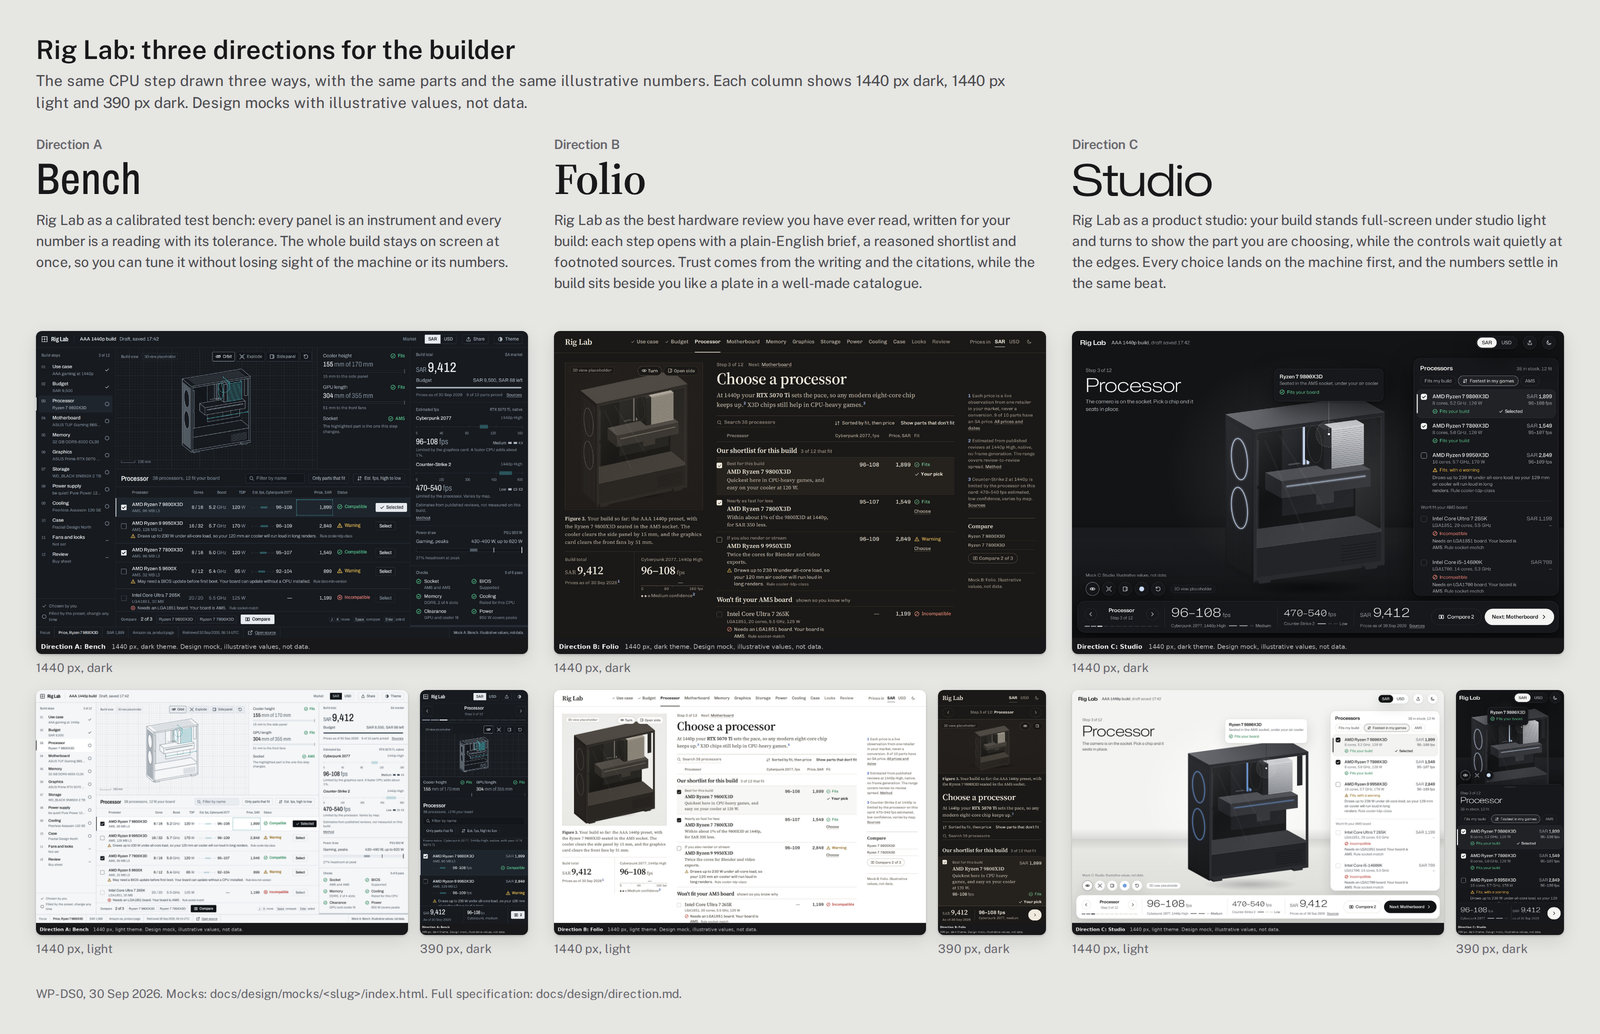
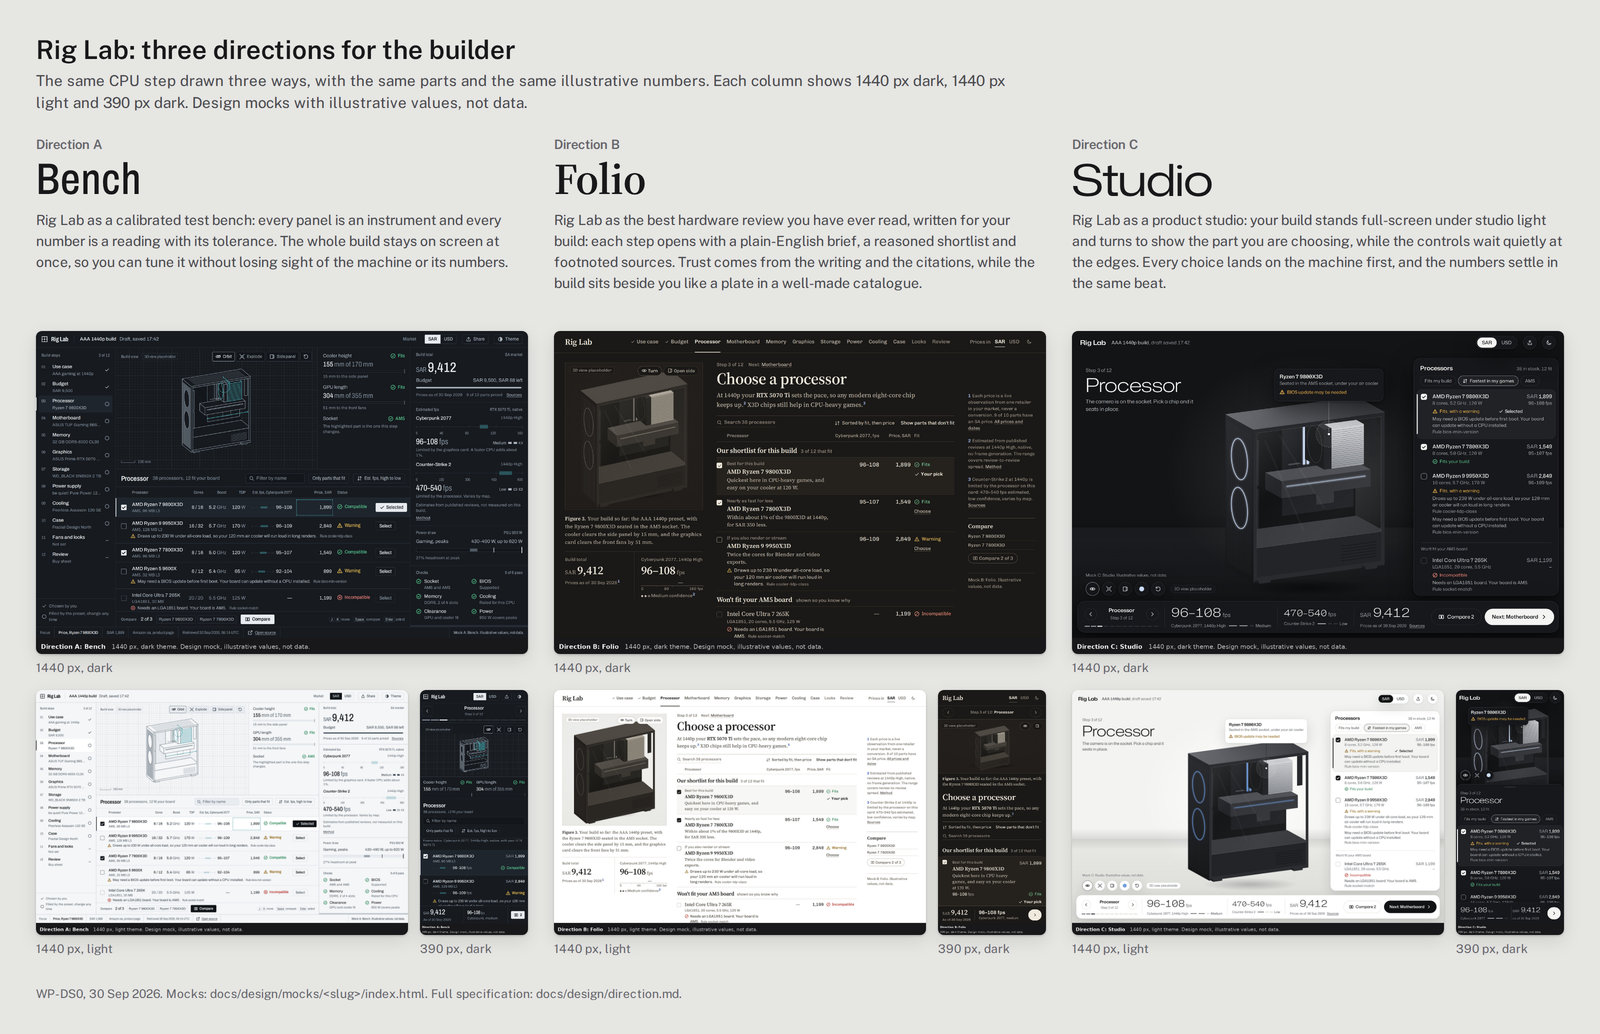
design: warn on the BIOS the Ryzen 9000 chips need in the Studio mock
The Studio mock showed the Ryzen 7 9800X3D as fitting the AM5 board with
no BIOS check, while the same build's Ryzen 5 9600X warns in the Bench
mock. Zen 5 chips need a newer BIOS than an early B650 board may ship
with, so the 9800X3D now warns with the same wording ("May need a BIOS
update before first boot. Your board can update without a CPU
installed."), and the 9950X3D, released later, adds that reason to its
cooler warning. Rows carry a list of reasons; the stage callout names
the warning; rule ids break onto their own line. Re-shot all six Studio
sizes and re-rendered the board. publish-mocks.py takes a slug.

Claude-Session: https://claude.ai/code/session_01ETfjPtJNMrx5HQNzy9SfWS

diff --git a/docs/design/mocks/studio/index.html b/docs/design/mocks/studio/index.html
@@ -178,7 +178,7 @@ svg.i { width: 18px; height: 18px; flex: none; stroke: currentColor; fill: none;
 .pst svg.i { width: 15px; height: 15px; }
 .pst .selected { margin-left: auto; color: var(--ink); font-weight: 500; display: inline-flex; gap: 4px; align-items: center; }
 .why { grid-column: 2 / 4; color: var(--ink-2); font-size: 13px; line-height: 19px; margin-top: 2px; }
-.why .rule { color: var(--ink-3); white-space: nowrap; margin-left: 4px; }
+.why .rule { color: var(--ink-3); white-space: nowrap; }
 .part.blocked .pn { color: var(--ink-2); }
 .part.blocked .pr { color: var(--ink-3); font-weight: 400; }
 .divider { margin: 10px 12px 4px; color: var(--ink-3); font-size: 12px; line-height: 16px; border-top: 1px solid var(--edge); padding-top: 10px; }
@@ -324,7 +324,7 @@ svg.i { width: 18px; height: 18px; flex: none; stroke: currentColor; fill: none;
   <div class="callout" id="callout" role="note" aria-label="The part this step changes">
     <div class="t" data-bind="co-name">Ryzen 7 9800X3D</div>
     <div class="s">Seated in the AM5 socket, under your air cooler</div>
-    <div class="chip ok" data-bind="co-state"><svg class="i"><use href="#i-ok"/></svg>Fits your board</div>
+    <div class="chip warn" data-bind="co-state"><svg class="i"><use href="#i-warn"/></svg>BIOS update may be needed</div>
   </div>
   <div class="heading">
     <div class="k">Step 3 of 12</div>
@@ -398,16 +398,18 @@ svg.i { width: 18px; height: 18px; flex: none; stroke: currentColor; fill: none;
 // Illustrative values only. Prices are per-market observations, never conversions.
 const OTHER = { sar: 7513, usd: 1990 };
 const CPUS = [
-  { id: '9800x3d', name: 'AMD Ryzen 7 9800X3D', short: 'Ryzen 7 9800X3D', sub: '8 cores, 5.2 GHz, 120 W', sar: 1899, usd: 479, cp: [96, 108], cs: [470, 540], state: 'ok' },
+  { id: '9800x3d', name: 'AMD Ryzen 7 9800X3D', short: 'Ryzen 7 9800X3D', sub: '8 cores, 5.2 GHz, 120 W', sar: 1899, usd: 479, cp: [96, 108], cs: [470, 540], state: 'warn',
+    why: [{ short: 'BIOS update may be needed', text: 'May need a BIOS update before first boot. Your board can update without a CPU installed.', rule: 'bios-min-version' }] },
   { id: '7800x3d', name: 'AMD Ryzen 7 7800X3D', short: 'Ryzen 7 7800X3D', sub: '8 cores, 5.0 GHz, 120 W', sar: 1549, usd: 399, cp: [95, 107], cs: [420, 490], state: 'ok' },
   { id: '9950x3d', name: 'AMD Ryzen 9 9950X3D', short: 'Ryzen 9 9950X3D', sub: '16 cores, 5.7 GHz, 170 W', sar: 2849, usd: 699, cp: [96, 109], cs: [480, 550], state: 'warn',
-    reason: 'Draws up to 230 W under all-core load, so your 120 mm air cooler will run loud in long renders.', rule: 'cooler-tdp-class' },
+    why: [{ short: 'Air cooler will run loud', text: 'Draws up to 230 W under all-core load, so your 120 mm air cooler will run loud in long renders.', rule: 'cooler-tdp-class' },
+      { short: 'BIOS update may be needed', text: 'May need a BIOS update before first boot. Your board can update without a CPU installed.', rule: 'bios-min-version' }] },
   { id: '265k', name: 'Intel Core Ultra 7 265K', short: 'Core Ultra 7 265K', sub: 'LGA1851, 20 cores, 5.5 GHz', sar: 1199, usd: 299, state: 'block',
-    reason: 'Needs an LGA1851 board. Your board is AM5.', rule: 'socket-match' },
+    why: [{ text: 'Needs an LGA1851 board. Your board is AM5.', rule: 'socket-match' }] },
   { id: '14600k', name: 'Intel Core i5-14600K', short: 'Core i5-14600K', sub: 'LGA1700, 14 cores, 5.3 GHz', sar: 799, usd: 199, state: 'block',
-    reason: 'Needs an LGA1700 board. Your board is AM5.', rule: 'socket-match' },
+    why: [{ text: 'Needs an LGA1700 board. Your board is AM5.', rule: 'socket-match' }] },
   { id: '5700x3d', name: 'AMD Ryzen 7 5700X3D', short: 'Ryzen 7 5700X3D', sub: 'AM4, 8 cores, 4.1 GHz', sar: null, usd: 219, state: 'block',
-    reason: 'Needs an AM4 board and DDR4 memory. Your board is AM5 with DDR5.', rule: 'socket-match' },
+    why: [{ text: 'Needs an AM4 board and DDR4 memory. Your board is AM5 with DDR5.', rule: 'socket-match' }] },
 ];
 const ST = { ok: ['Fits your build', 'i-ok'], warn: ['Fits, with a warning', 'i-warn'], block: ['Incompatible', 'i-block'] };
 let cur = 'sar', selected = '9800x3d';
@@ -441,7 +443,7 @@ function partHTML(c) {
     <div><div class="pn">${c.name}</div><div class="ps">${c.sub}</div></div>
     <div><div class="pr">${price}</div><div class="pf">${c.cp ? `${c.cp[0]}–${c.cp[1]} fps` : '—'}</div></div>
     <div class="pst ${c.state}"><svg class="i"><use href="#${icon}"/></svg>${lab}${c.id === selected ? '<span class="selected"><svg class="i"><use href="#i-check"/></svg>Selected</span>' : ''}</div>
-    ${c.reason ? `<div class="why"><span class="sr">${lab}: </span>${c.reason}<span class="rule">Rule ${c.rule}</span></div>` : ''}
+    ${(c.why || []).map((w) => `<div class="why"><span class="sr">${lab}: </span>${w.text} <span class="rule">Rule ${w.rule}</span></div>`).join('')}
   </div>`;
 }
 function render() {
@@ -464,7 +466,7 @@ function readouts() {
   swap(bind('fps2'), `${c.cs[0]}–${c.cs[1]}<span class="unit">fps</span>`);
   bind('co-name').textContent = c.short;
   const [lab, icon] = ST[c.state];
-  const chip = bind('co-state'); chip.className = 'chip ' + c.state; chip.innerHTML = `<svg class="i"><use href="#${icon}"/></svg>${c.state === 'ok' ? 'Fits your board' : 'Fits, see warning'}`;
+  const chip = bind('co-state'); chip.className = 'chip ' + c.state; chip.innerHTML = `<svg class="i"><use href="#${icon}"/></svg>${c.state === 'ok' ? 'Fits your board' : c.why.length > 1 ? `${c.why.length} warnings` : c.why[0].short}`;
 }
 // Anchor the callout to the CPU socket's on-screen position.
 function place() {

diff --git a/docs/design/tools/publish-mocks.py b/docs/design/tools/publish-mocks.py
@@ -3,11 +3,13 @@
 Each image is downscaled with Lanczos (captured at 2x or 3x, so text stays sharp), cropped to the
 same viewport per size, and given a caption strip. Limits: <= 1600 px wide, <= 300 KB, JPEG.
 
-    python3 docs/design/tools/publish-mocks.py
+    python3 docs/design/tools/publish-mocks.py            # all three mocks
+    python3 docs/design/tools/publish-mocks.py studio     # one mock
 """
 import io
 import json
 import os
+import sys
 from PIL import Image, ImageDraw, ImageFont
 
 ROOT = os.path.abspath(os.path.join(os.path.dirname(__file__), '..', '..', '..'))
@@ -63,8 +65,12 @@ def save(img, path):
     return buf.tell(), q, img.size
 
 
-manifest = []
-for slug, name in NAMES.items():
+SLUGS = sys.argv[1:] or list(NAMES)
+MANIFEST = os.path.join(SRC, 'publish-manifest.json')
+# Keep the entries of mocks this run does not touch.
+manifest = [m for m in (json.load(open(MANIFEST)) if os.path.exists(MANIFEST) else []) if m['file'].split('/')[3] not in SLUGS]
+for slug in SLUGS:
+    name = NAMES[slug]
     for shot, (tw, label) in SHOTS.items():
         src = os.path.join(SRC, slug, shot + '.png')
         if not os.path.exists(src):
@@ -78,4 +84,4 @@ for slug, name in NAMES.items():
         size, q, dims = save(im, out)
         manifest.append({'file': os.path.relpath(out, ROOT), 'bytes': size, 'quality': q, 'size': dims})
         print(f'{slug:6} {shot:14} {dims[0]}x{dims[1]}  {size // 1024:4} KB  q{q}')
-json.dump(manifest, open(os.path.join(SRC, 'publish-manifest.json'), 'w'), indent=1)
+json.dump(manifest, open(MANIFEST, 'w'), indent=1)
